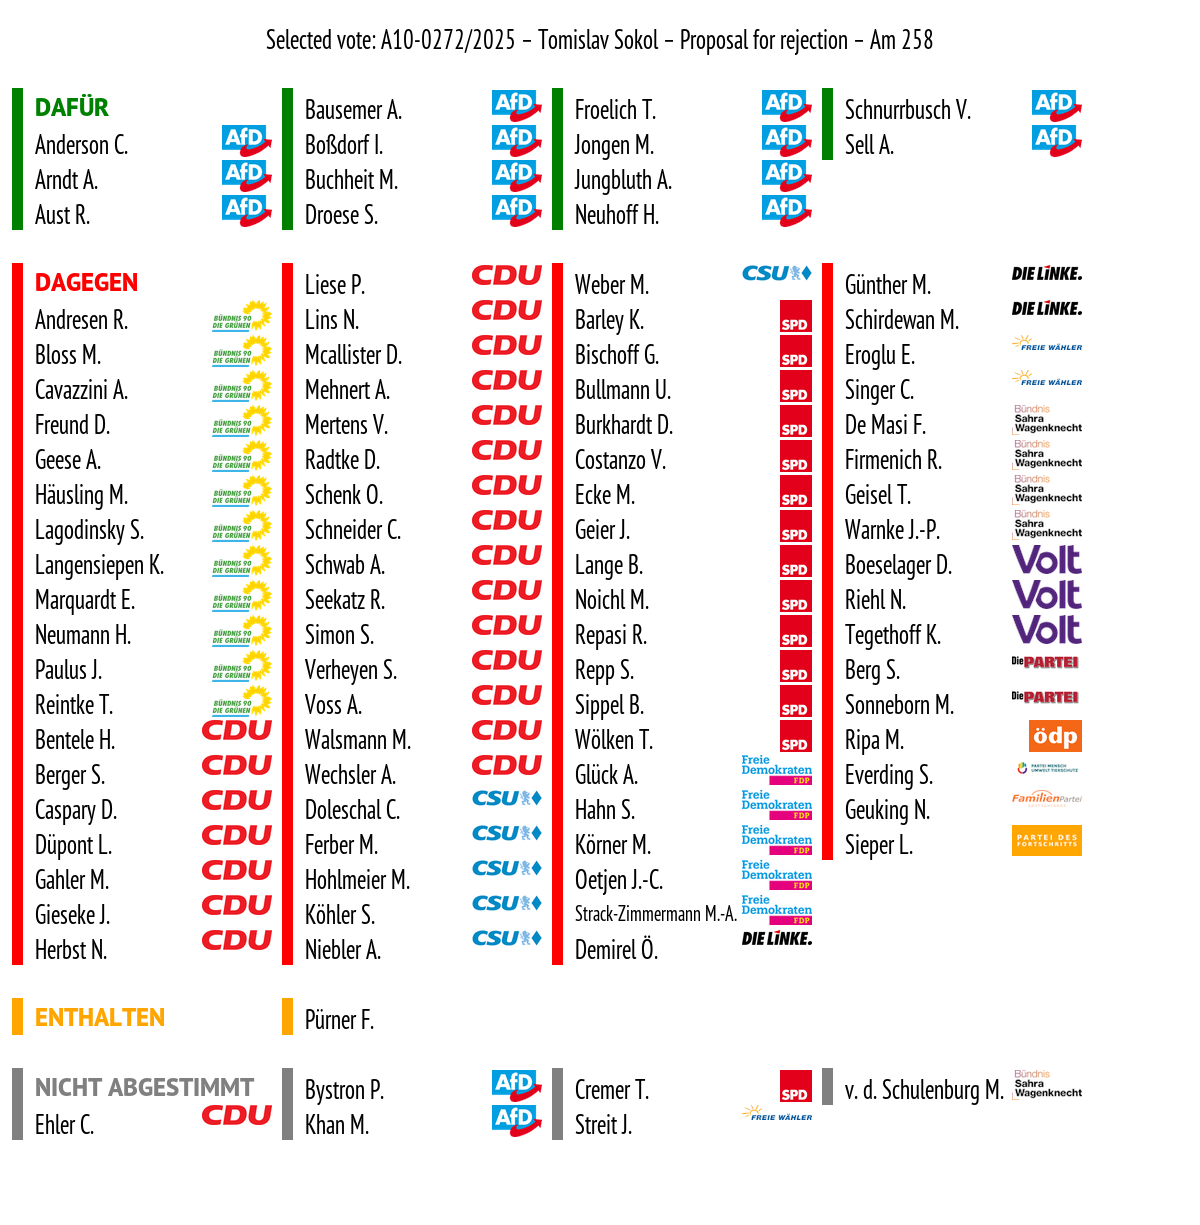
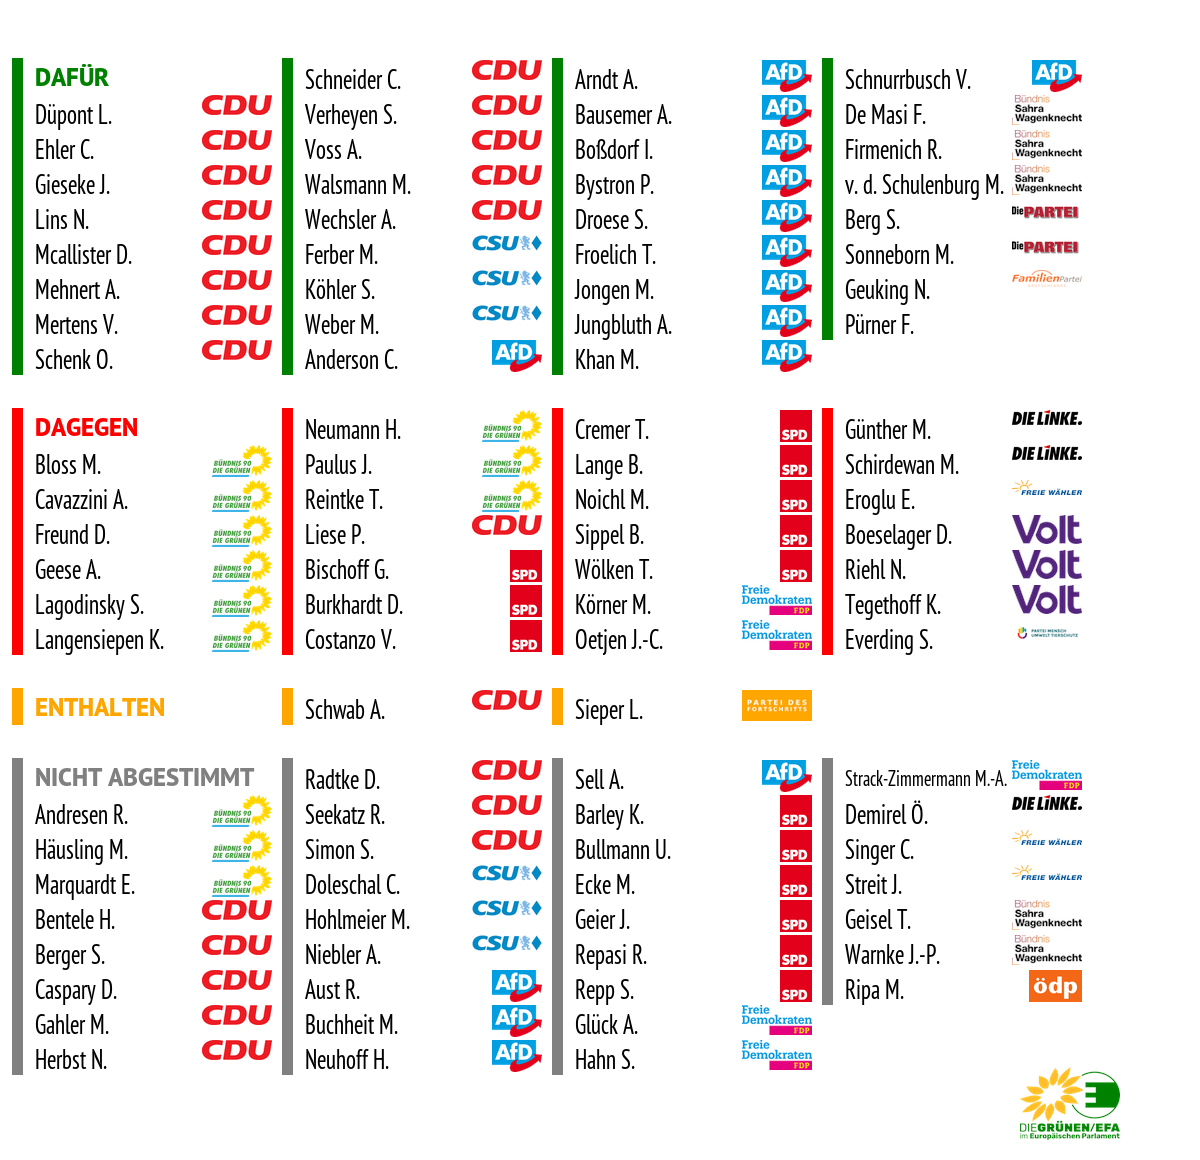
m

Changed region(s): [[0.0, 0.0, 0.9558, 0.9931]]

diff --git a/logic.py b/logic.py
@@ -646,6 +646,24 @@ def generate_image(data, output_path="sharepic.png"):
     y = draw_block(draw, data["nicht_abgestimmt"], "NICHT ABGESTIMMT", y, COLOR_MAP["nicht_abgestimmt"], font_block, font_block2, font_block3, logos)
 
     img = img.crop((0, 0, img.width, y + 50))  # Bild kürzen
+    logo_path = os.path.join(LOGO_PATH, "GreensEFA.png")
+    if os.path.exists(logo_path):
+        bottom_logo = Image.open(logo_path).convert("RGBA")
+        
+        # Größe anpassen (z.B. 100px breit)
+        logo_width = 100
+        aspect_ratio = bottom_logo.height / bottom_logo.width
+        logo_height = int(logo_width * aspect_ratio)
+        bottom_logo = bottom_logo.resize((logo_width, logo_height), Image.LANCZOS)
+        
+        # Position: unten rechts mit 20px Abstand
+        x_pos = img.width - logo_width - 80
+        y_pos = img.height - logo_height - 20
+        
+        img.paste(bottom_logo, (x_pos, y_pos), bottom_logo)
+
+
+    
     img.save(output_path)
 
 
